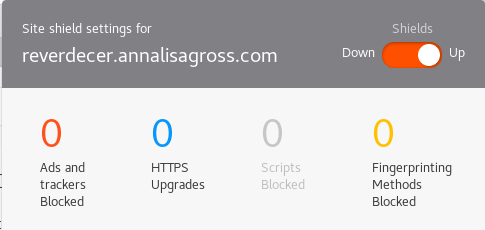
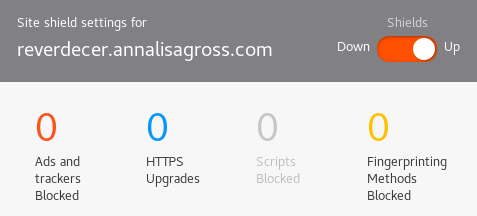
Publishing

diff --git a/_posts/2018-07-29-unadvertising.md b/_posts/2018-07-29-unadvertising.md
@@ -1,0 +1,14 @@
+---
+title: Un-advertising
+date: '2018-07-29 07:00:00'
+image: brave_shields.png
+layout: post
+---
+
+Every day there are headlines about websites collecting [information about you](https://en.wikipedia.org/wiki/Google_Analytics#Privacy), using it to [manipulate your behavior](https://en.wikipedia.org/wiki/Cambridge_Analytica), and losing it to even [less savory characters](https://en.wikipedia.org/wiki/Equifax#May%E2%80%93July_2017_data_breach).  With this in mind we built this site with absolutly no tracking or data collection. So how can we pay the bills without harvesting your data and showing you annoying ads? Here are some ways you can support this blog and our projects.
+
+# Buy something on [Amazon](https://amzn.to/2uMP6nF):
+Before you start an Amazon shopping  session, click on our of our affiliate links, and we'll get a little kick-back.  For example click the link for the [solar shower  bags](https://amzn.to/2uMP6nF).  This doesn't cost you anything extra. You don't even have to buy the bags, just use the link to get to Amazon.
+
+# Try out the [Brave Browser](https://brave.com/ann105):
+The Brave Browser is similar to Chrome, but is even faster because it disables annoying advertising and analytics scripts from running.  Instead it adds a token system for directly supporting websites you like.  Use the link above and they'll start you out with $5 of tokens to give away to your favorte websites.  We see the Brave Browser as a way to make the web more like PBS or NPR, paying for the programing you want more of instead of being served advertisments for new shiny toys.
